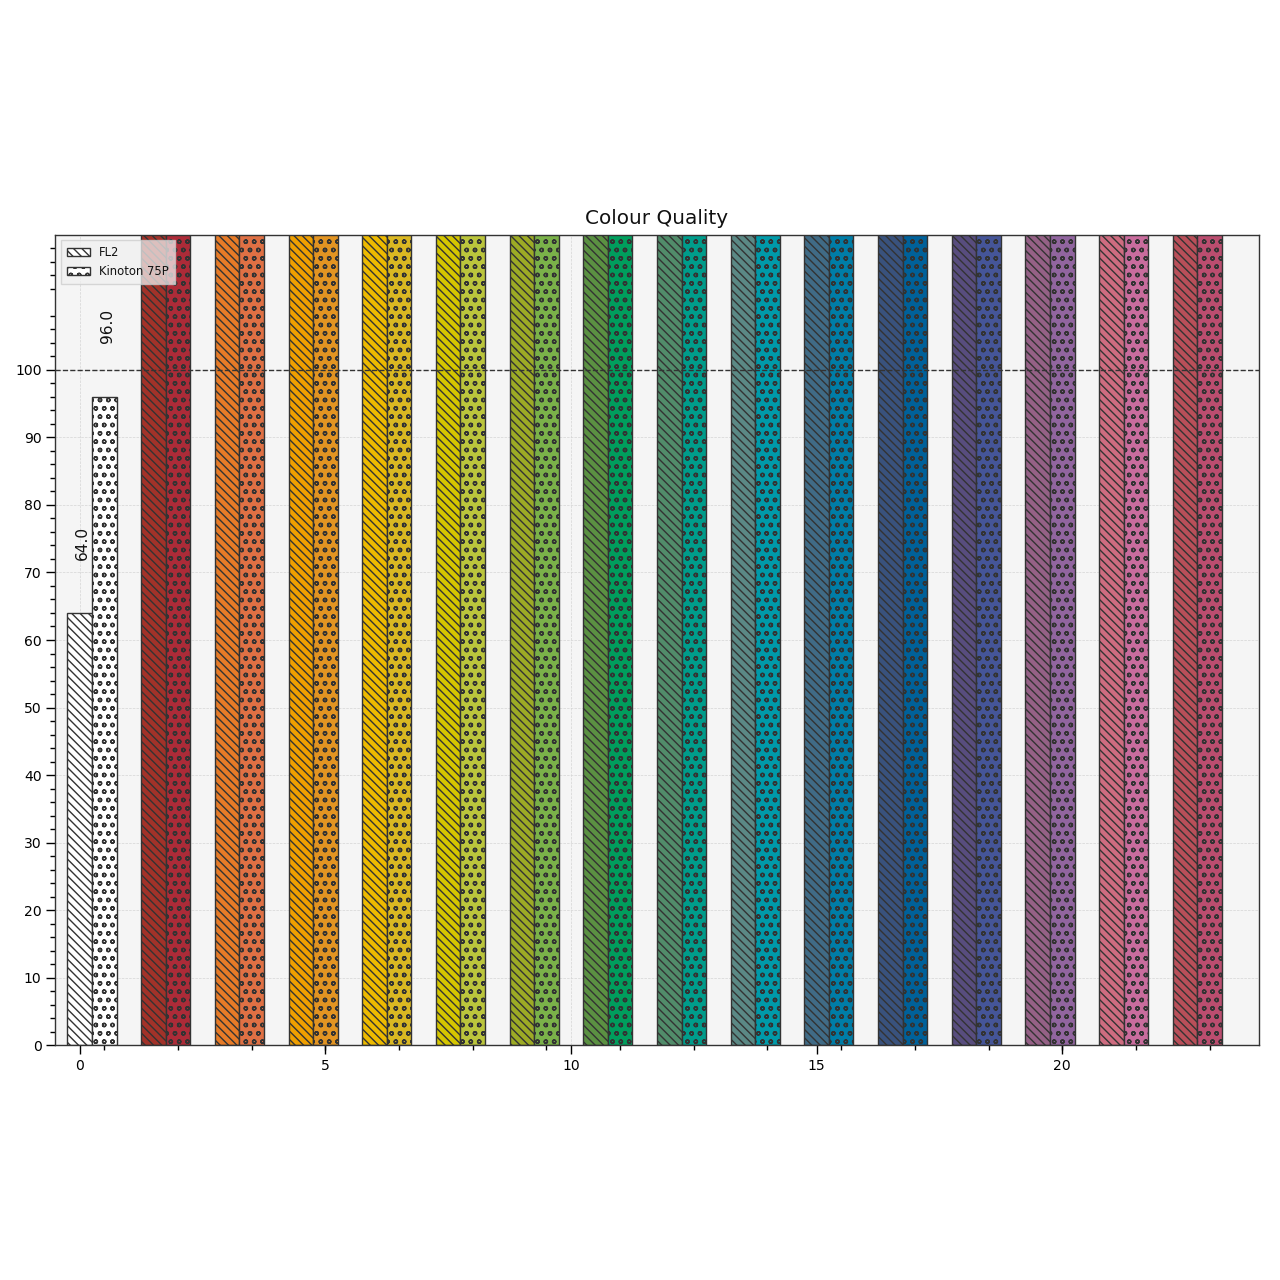
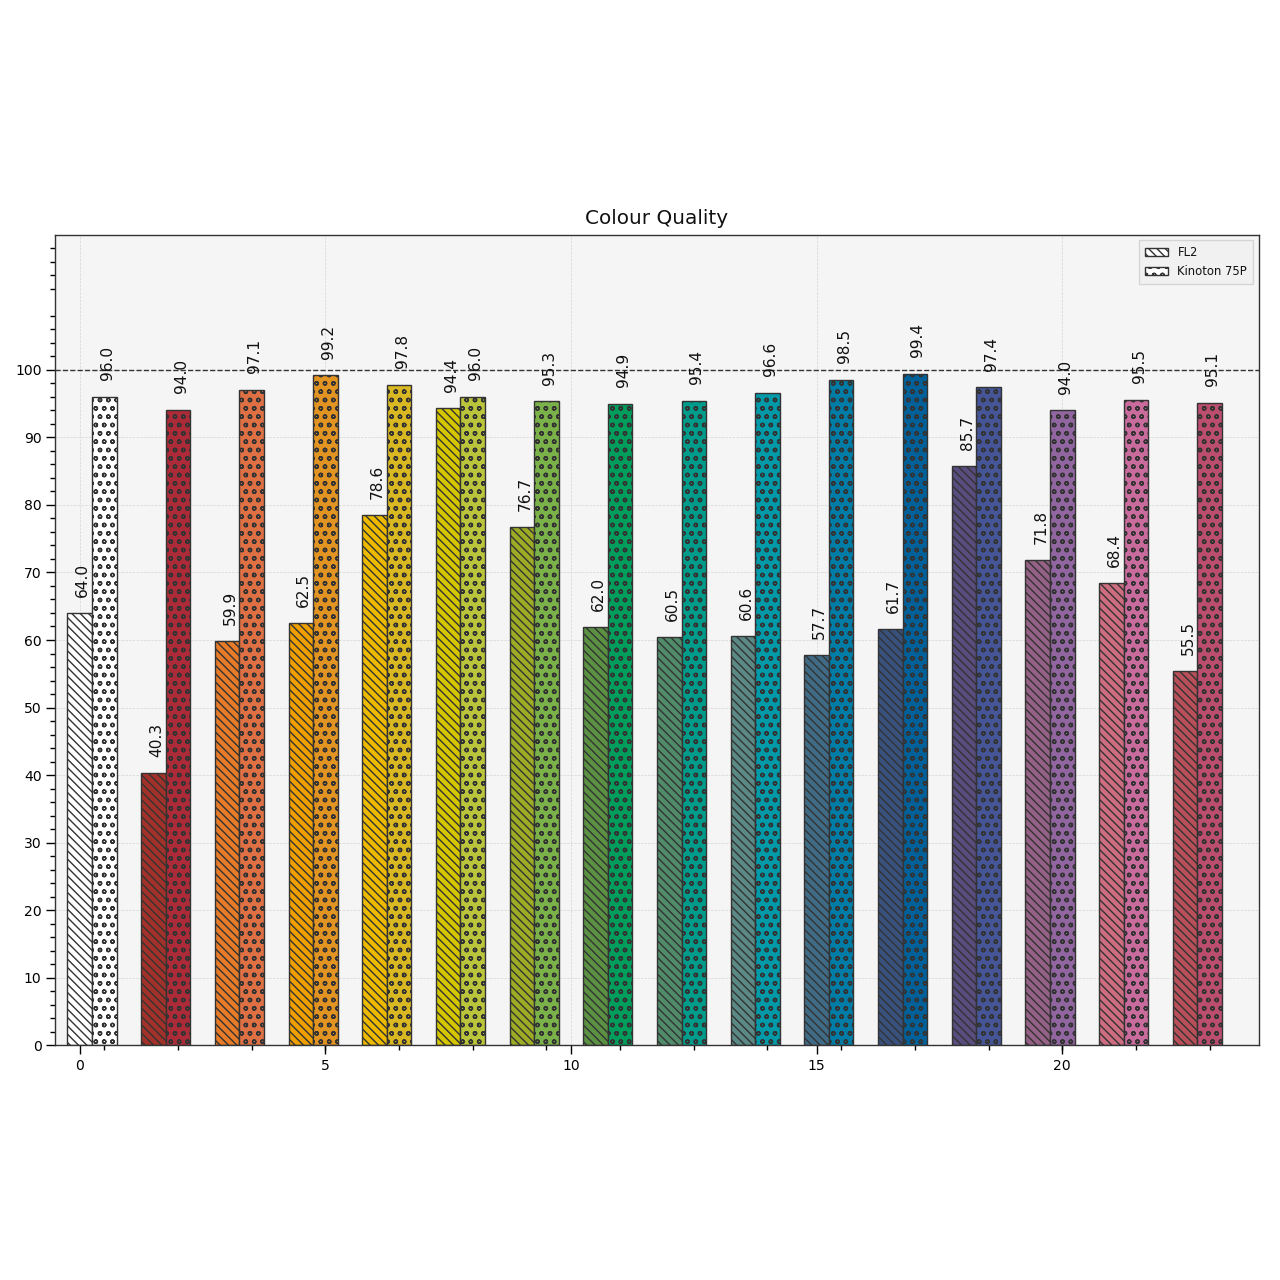
Re-generate "Colour Quality Scale" related figures.

Changed region(s): [[0.0312, 0.1875, 0.9688, 0.625]]

diff --git a/colour/plotting/quality.py b/colour/plotting/quality.py
@@ -297,7 +297,7 @@ Plot_Multi_SDs_Colour_Rendering_Indexes_Bars.png
 
 @override_style()
 def plot_single_sd_colour_quality_scale_bars(sd,
-                                             method='NIST CQS 7.4',
+                                             method='NIST CQS 9.0',
                                              **kwargs):
     """
     Plots the *Colour Quality Scale* (CQS) of given illuminant or light source
@@ -352,7 +352,7 @@ Plot_Single_SD_Colour_Quality_Scale_Bars.png
 
 @override_style()
 def plot_multi_sds_colour_quality_scales_bars(sds,
-                                              method='NIST CQS 7.4',
+                                              method='NIST CQS 9.0',
                                               **kwargs):
     """
     Plots the *Colour Quality Scale* (CQS) of given illuminants or light
